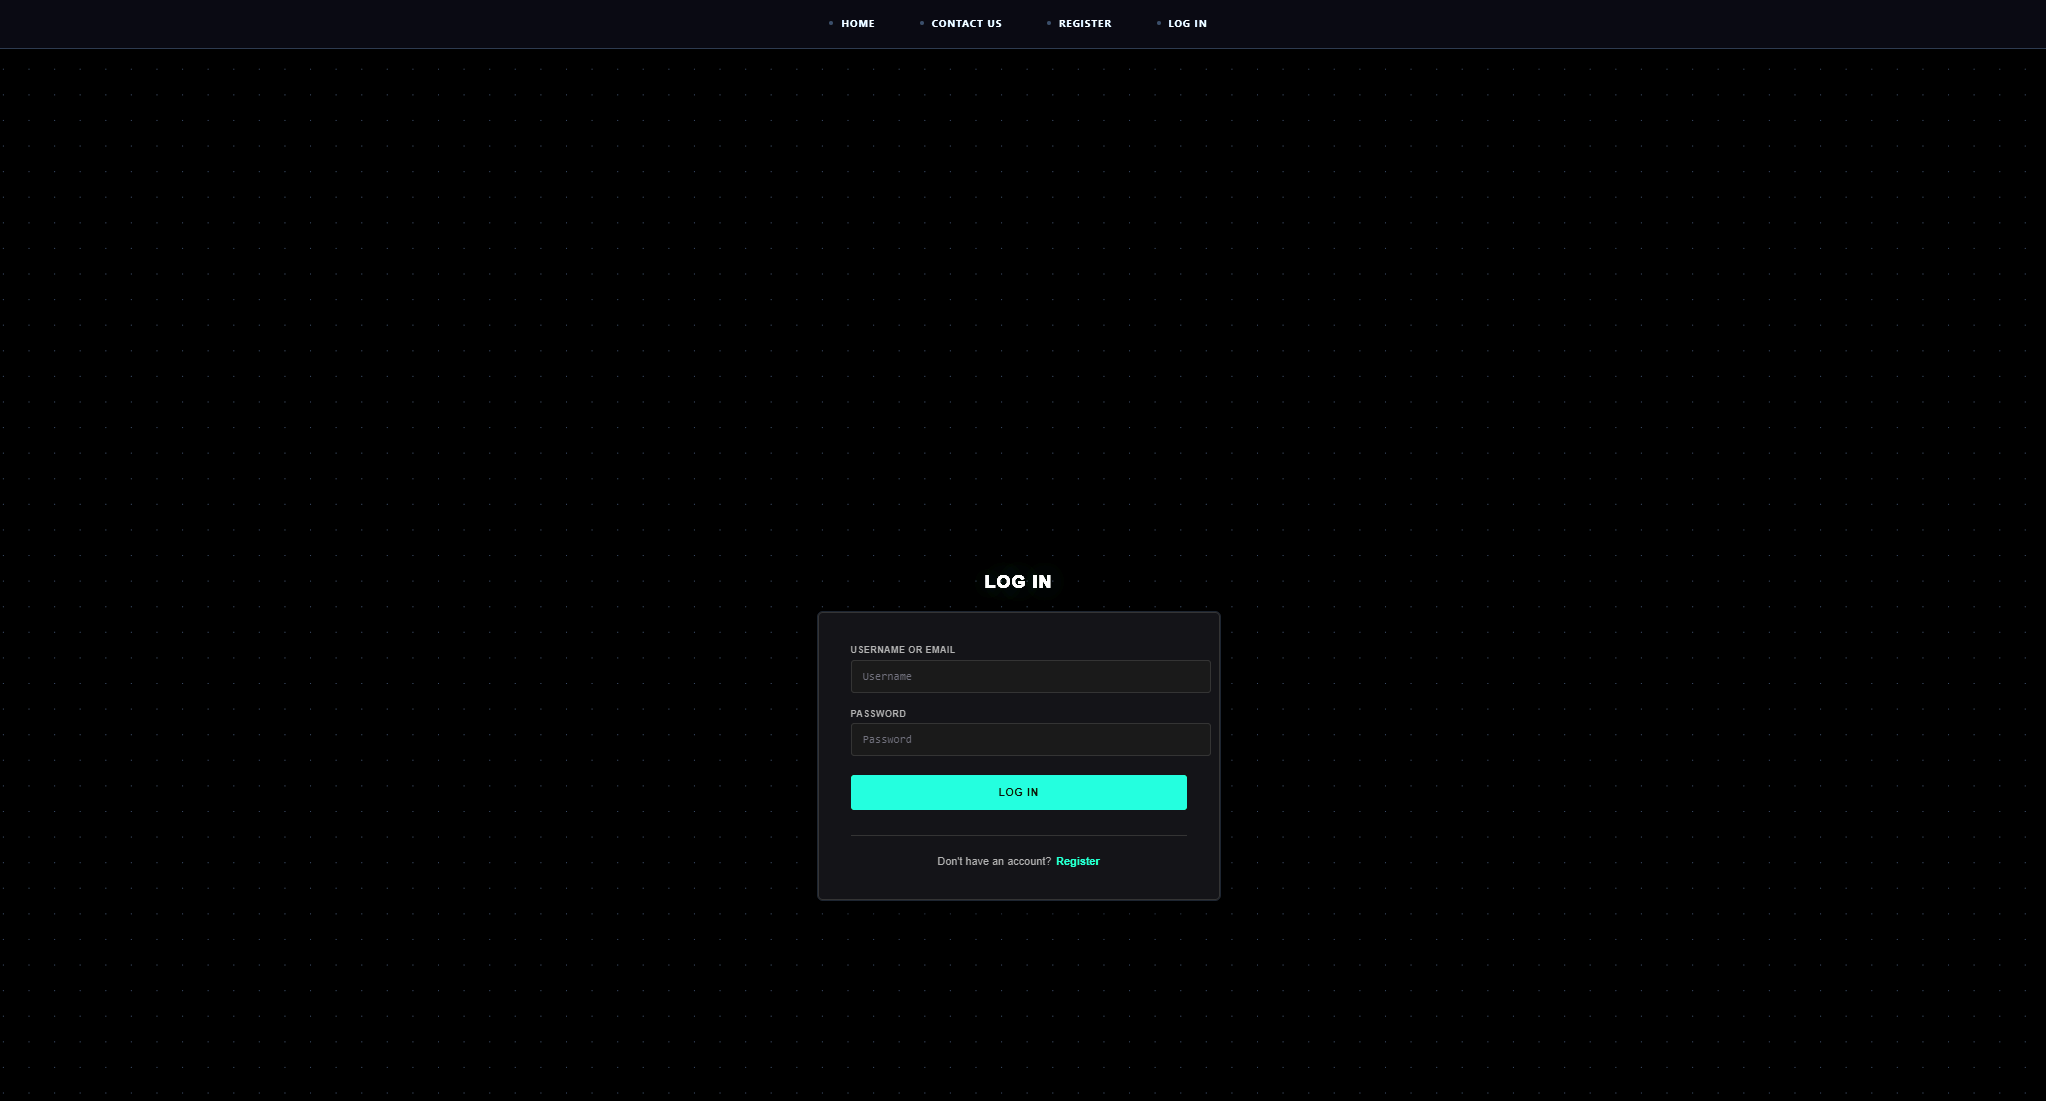
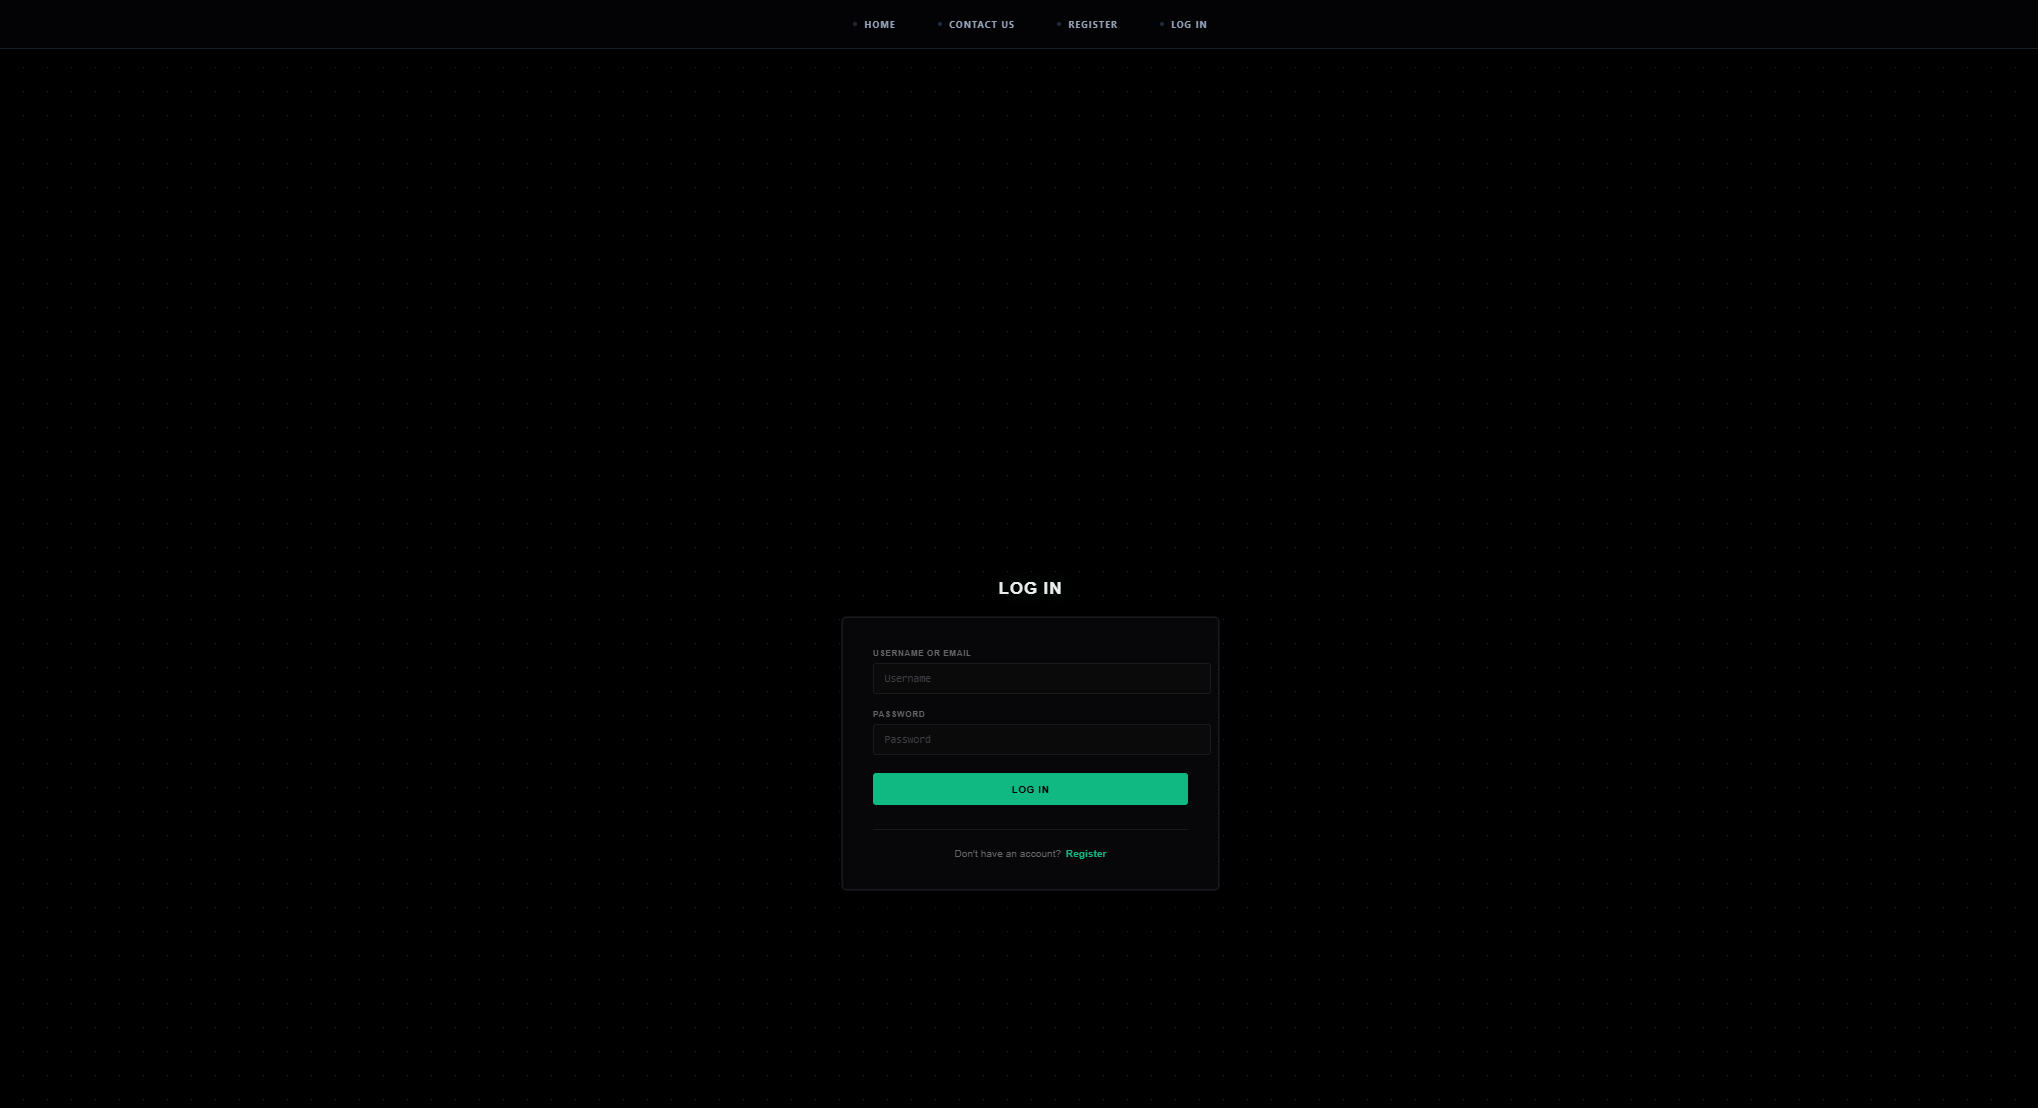
feat: add new imgs and information in the networksTelecommunications structure for the networks_telecommunications.js archive in the src/data.

diff --git a/src/data/networks_telecommunications.js b/src/data/networks_telecommunications.js
@@ -4,9 +4,15 @@ import NTLogIn from "../images/imgNetworksTelecommunications/NTLogIn.png";
 import NTContactUs from "../images/imgNetworksTelecommunications/NTContactUs.png";
 import NTFormCameras from "../images/imgNetworksTelecommunications/NTFormCameras.png";
 import NTFormRouters from "../images/imgNetworksTelecommunications/NTFormRouters.png";
-import NTAdminUsers from "../images/imgNetworksTelecommunications/NTAdminUsers.png";
+import NTVisualizerCameras from "../images/imgNetworksTelecommunications/NTVisualizerCameras.png";
+import NTVisualizerRouters from "../images/imgNetworksTelecommunications/NTVisualizerRouters.png";
 import NTProfileUser from "../images/imgNetworksTelecommunications/NTProfileUser.png";
-
+import NTAdminUsers from "../images/imgNetworksTelecommunications/NTAdminUsers.png";
+import NTAdminUsersEdit from "../images/imgNetworksTelecommunications/NTAdminUsersEdit.png";
+import NTAdminCams from "../images/imgNetworksTelecommunications/NTAdminCams.png";
+import NTAdminCamsMap from "../images/imgNetworksTelecommunications/NTAdminCamsMap.png";
+import NTAdminRouters from "../images/imgNetworksTelecommunications/NTAdminRouters.png";
+import NTAdminRoutersMap from "../images/imgNetworksTelecommunications/NTAdminRoutersMap.png";
 
 
 
@@ -18,7 +24,7 @@ const networksTelecommunications = {
     title: "Networks Telecommunications",
 
     description:
-        "Networks Telecommunications is a full-stack infrastructure management platform built with React and Django REST Framework to simulate the operation of a centralized telecommunications environment. The system combines network asset management, device monitoring, geolocation, maintenance workflows, multimedia resources, and role-based access into a unified platform. Administrators can manage cameras, routers, users, and infrastructure records, while authorized users can access relevant network information through protected interfaces. The project demonstrates the integration of a React frontend, RESTful backend services, relational data modeling with MySQL, and interactive geospatial visualization to reproduce workflows commonly associated with telecommunications infrastructure and Network Operations Centers (NOCs).",
+        "Networks Telecommunications is a full-stack platform for managing and monitoring telecommunications infrastructure. Built with React, Django REST Framework, and MySQL, it centralizes camera and router management, geolocation, user administration, and infrastructure data within a unified environment. The project demonstrates the integration of RESTful services, relational data management, protected access, and interactive maps to model workflows found in network infrastructure operations.",
 
     github:
         "https://github.com/JuanDiegoCC02/Networks-Telecommunications.git",
@@ -75,138 +81,139 @@ const networksTelecommunications = {
 
     gallery: [
 
+        // home 
         {
             src: NTHome,
             alt: "Home",
             description:
-                "Centralized entry point to the telecommunications management platform. The interface introduces the system and organizes access to its main operational areas, establishing the foundation for managing network infrastructure, devices, users, and monitoring workflows from a unified environment."
+                "Centralized entry point to the platform, providing access to the main telecommunications infrastructure and management modules."
         },
 
 
-
-
+        // register
         {
             src: NTRegister,
             alt: "User Registration",
             description:
-                "User registration interface for creating platform accounts and establishing the identity required to access protected infrastructure resources. The workflow connects the frontend form with the Django backend and persistent database layer, demonstrating full-stack data submission and account creation."
+                "Account creation workflow connecting the React interface with the Django backend and database to register new platform users."
         },
 
 
-   
-
+        // log in
         {
             src: NTLogIn,
             alt: "Login",
             description:
-                "Authentication interface responsible for controlling access to the platform. After successful authentication, users can access the resources and functionality permitted by the application, establishing the security boundary between public access and protected telecommunications management features."
+                "Authentication interface that protects platform resources and establishes controlled access to the telecommunications management environment."
         },
 
 
-
-
+        // contanct us
         {
             src: NTContactUs,
             alt: "Contact Us",
             description:
-                "Communication interface that allows users to submit inquiries or requests to the platform. The feature demonstrates another complete data flow between the React frontend and backend services while providing a dedicated channel for interaction with the system."
+                "Communication module allowing users to submit inquiries or requests through a structured frontend-to-backend data workflow."
         },
 
 
-   
-
+        // form cameras
         {
             src: NTFormCameras,
-            alt: "Camera Registration Form",
+            alt: "Camera Registration",
             description:
-                "Camera infrastructure registration form designed to capture the operational information required to incorporate a surveillance device into the system. The module connects structured frontend forms with the backend API and database, creating a reusable workflow for managing distributed telecommunications assets."
+                "Structured form for registering surveillance cameras and storing their infrastructure information through the REST API and MySQL database."
         },
 
 
-  
+         // cameras visualizer
+        {
+            src: NTVisualizerCameras,
+            alt: "Camera Visualizer",
+            description:
+                "User-facing camera visualization module where authorized users can browse registered surveillance infrastructure and access relevant device information without administrative controls."
+        },
 
+
+        // form routers
         {
             src: NTFormRouters,
-            alt: "Router Registration Form",
+            alt: "Router Registration",
             description:
-                "Router registration interface for incorporating network equipment into the infrastructure inventory. It demonstrates structured asset management, where device information can be captured and persisted through the React, Django REST Framework, and MySQL stack."
+                "Network equipment registration workflow for incorporating routers into the infrastructure inventory and persisting their operational information."
         },
 
 
-
+        // routers visualizer
         {
-            //src: ,
+            src: NTVisualizerRouters,
+            alt: "Router Visualizer",
+            description:
+                "User-facing router visualization module providing access to registered network equipment and its relevant infrastructure information through a dedicated consultation interface."
+        },
+
+
+        // admin cameras map
+        {
+            src: NTAdminCamsMap,
+            alt: "Camera Infrastructure Map",
+            description:
+                "Interactive Leaflet map displaying the geographic distribution of registered cameras. Each infrastructure record can be associated with geographic coordinates, transforming database information into a visual representation of the surveillance network."
+        },
+
+
+        // admin cameras
+        {
+            src: NTAdminCams,
             alt: "Camera Administration",
             description:
-                "Administrative camera management module designed to centralize the control of registered surveillance infrastructure. Administrators can review device records, manage operational information, monitor infrastructure status, and maintain the inventory of cameras connected to the platform."
+                "Administrative camera management interface that centralizes registered surveillance assets, allowing administrators to review and manage infrastructure records from a dedicated control environment."
         },
 
 
-
+        // admin routers map
         {
-            //src: ,
+            src: NTAdminRoutersMap,
+            alt: "Router Infrastructure Map",
+            description:
+                "Interactive Leaflet visualization showing the geographic location of registered routers, providing administrators with a spatial view of distributed network infrastructure."
+        },
+
+
+        // admin routers
+        {
+            src: NTAdminRouters,
             alt: "Router Administration",
             description:
-                "Administrative router management module focused on maintaining an organized inventory of network equipment. The interface provides administrators with centralized control over router records, device information, operational status, and infrastructure management workflows."
+                "Administrative router management interface for controlling the registered network equipment inventory and maintaining centralized infrastructure information."
         },
 
 
-
-
-        {
-            //src: ,
-            alt: "Camera Infrastructure",
-            description:
-                "Camera infrastructure view designed for authorized users to consult registered surveillance devices without requiring administrative management capabilities. This separation between consultation and administration reflects a more realistic infrastructure platform where different users interact with the same data according to their access level."
-        },
-
-
-
-
-        {
-            //src: ,
-            alt: "Router Infrastructure",
-            description:
-                "Router infrastructure view providing authorized users with access to relevant network equipment information. The module focuses on infrastructure visibility and demonstrates how the platform can expose operational data while keeping administrative actions separated from standard user access."
-        },
-
-
-
+        // admin user
         {
             src: NTAdminUsers,
             alt: "User Administration",
             description:
-                "Administrative user management interface that centralizes account administration within the platform. It provides a dedicated environment for managing registered users and controlling access to the infrastructure management system, reinforcing the separation between standard users and administrative operations."
+                "Administrative user management interface providing centralized control over registered accounts and their interaction with the infrastructure platform."
         },
 
 
+        // admin user edit
+        {
+            src: NTAdminUsersEdit,
+            alt: "Edit User",
+            description:
+                "User editing interface that allows administrators to update account information directly from the management environment, completing the platform's user administration workflow."
+        },
 
+
+        // user profile
         {
             src: NTProfileUser,
             alt: "User Profile",
             description:
-                "Personal user profile interface where authenticated users can access and manage their account information. This component complements the authentication system by providing a dedicated space for user identity and account-related information within the protected application environment."
+                "Authenticated user profile providing access to personal account information within the protected platform environment."
         },
-
-
-
-
-        {
-            //src: ,
-            alt: "Infrastructure Map",
-            description:
-                "Interactive geospatial visualization powered by Leaflet, designed to represent the physical distribution of telecommunications infrastructure. Cameras and routers can be associated with geographic coordinates, allowing the platform to transform database records into a visual representation of distributed network assets."
-        },
-
-
- 
-        {
-            //src: ,
-            alt: "Maintenance Management",
-            description:
-                "Maintenance management workflow designed to preserve the operational lifecycle of telecommunications infrastructure. The system allows maintenance activities and historical information to be associated with network assets, providing a structured approach to equipment follow-up and infrastructure management."
-        }
-
     ]
 
 };
